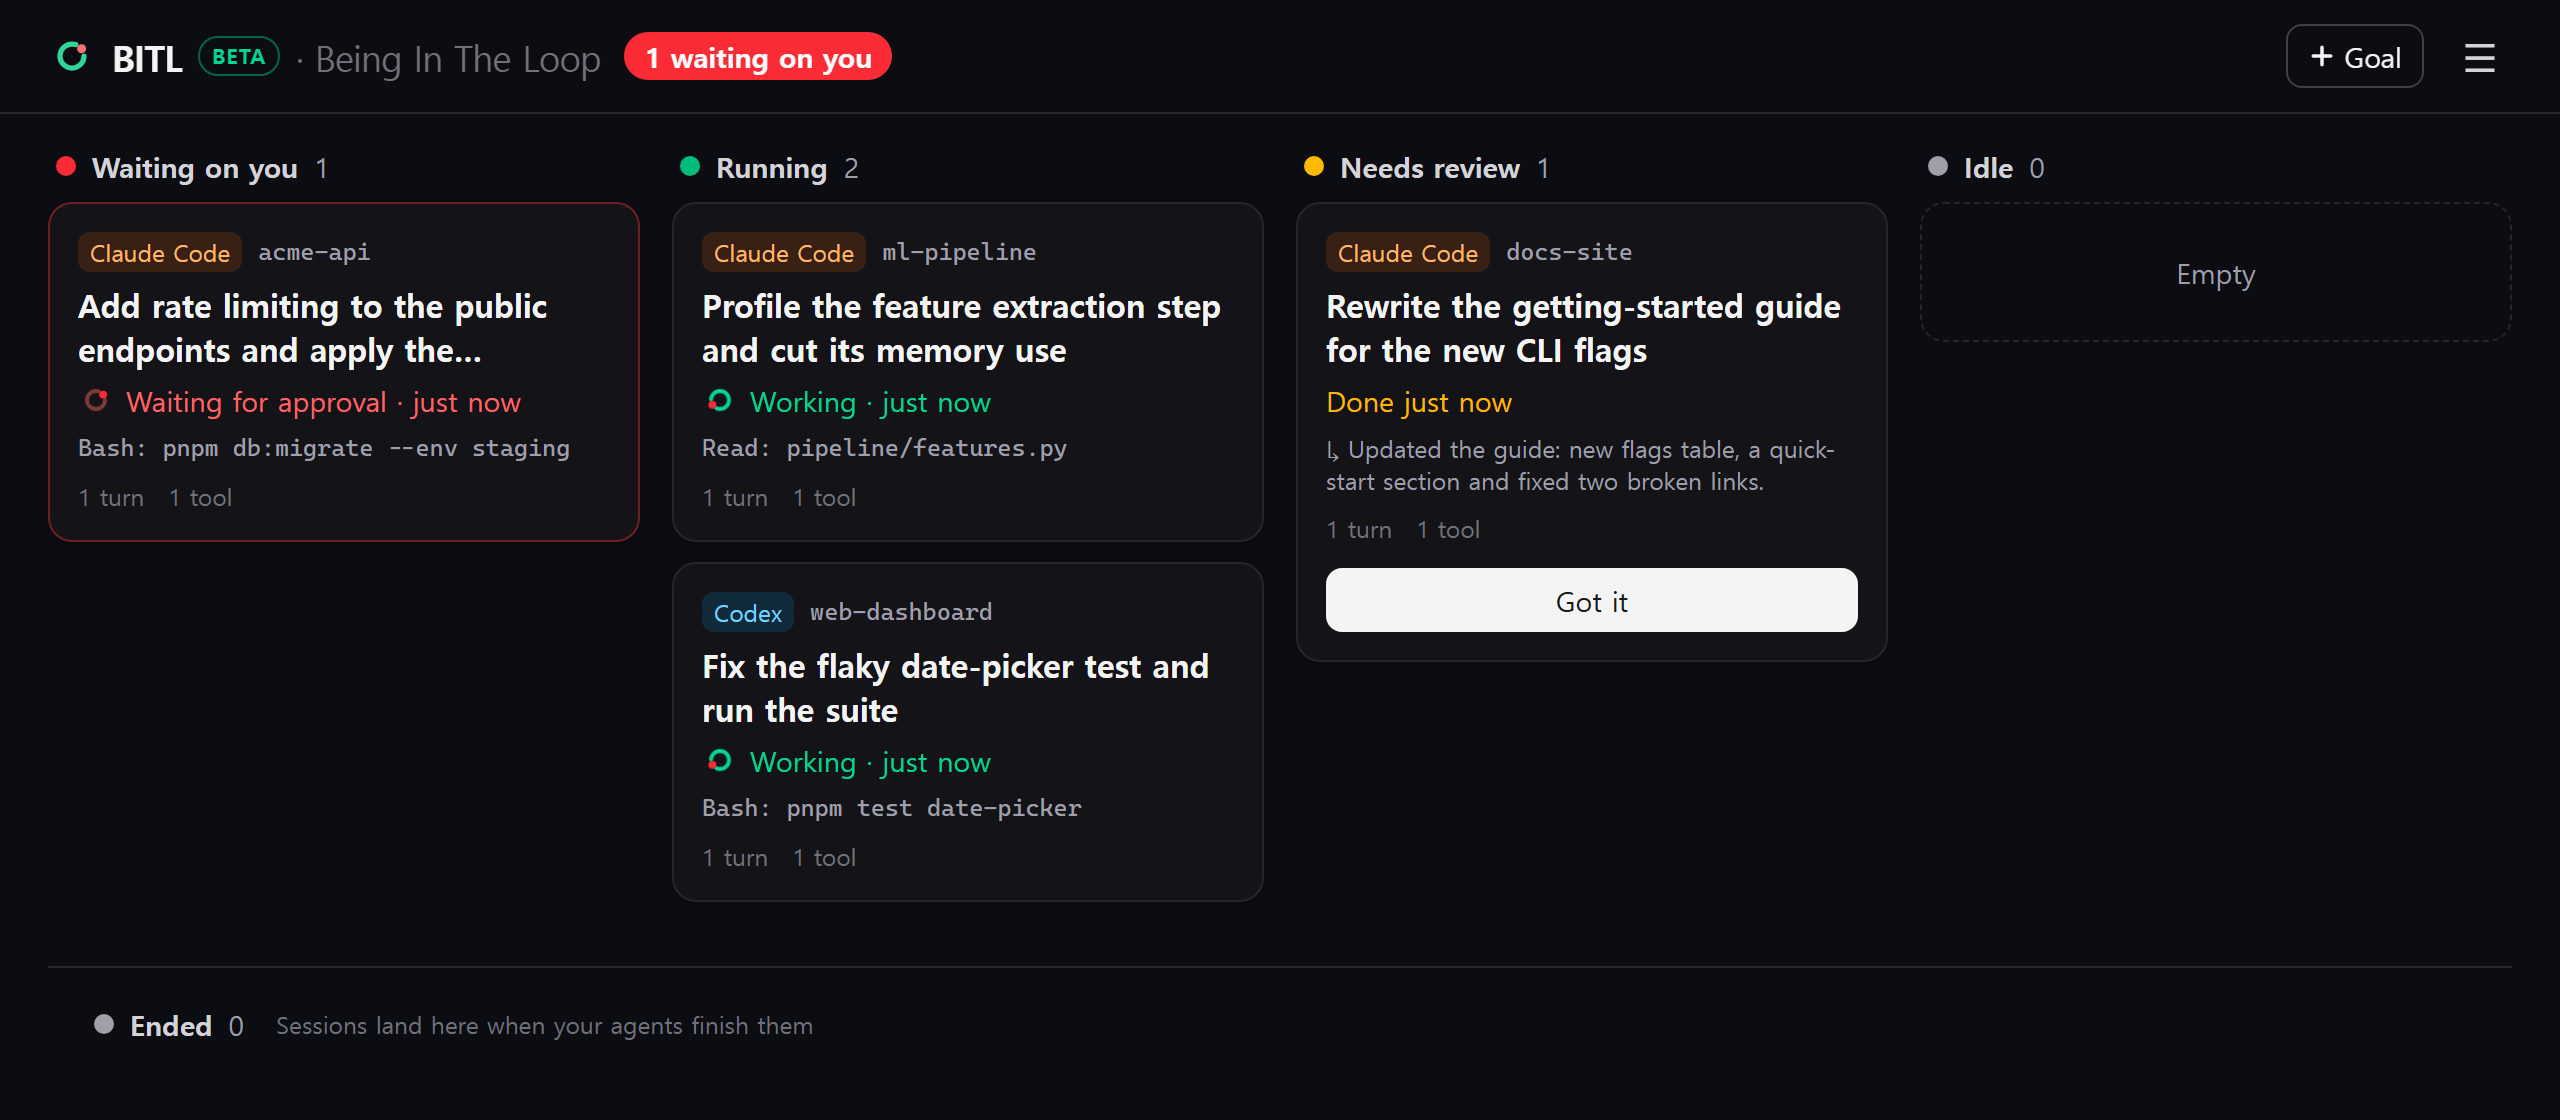
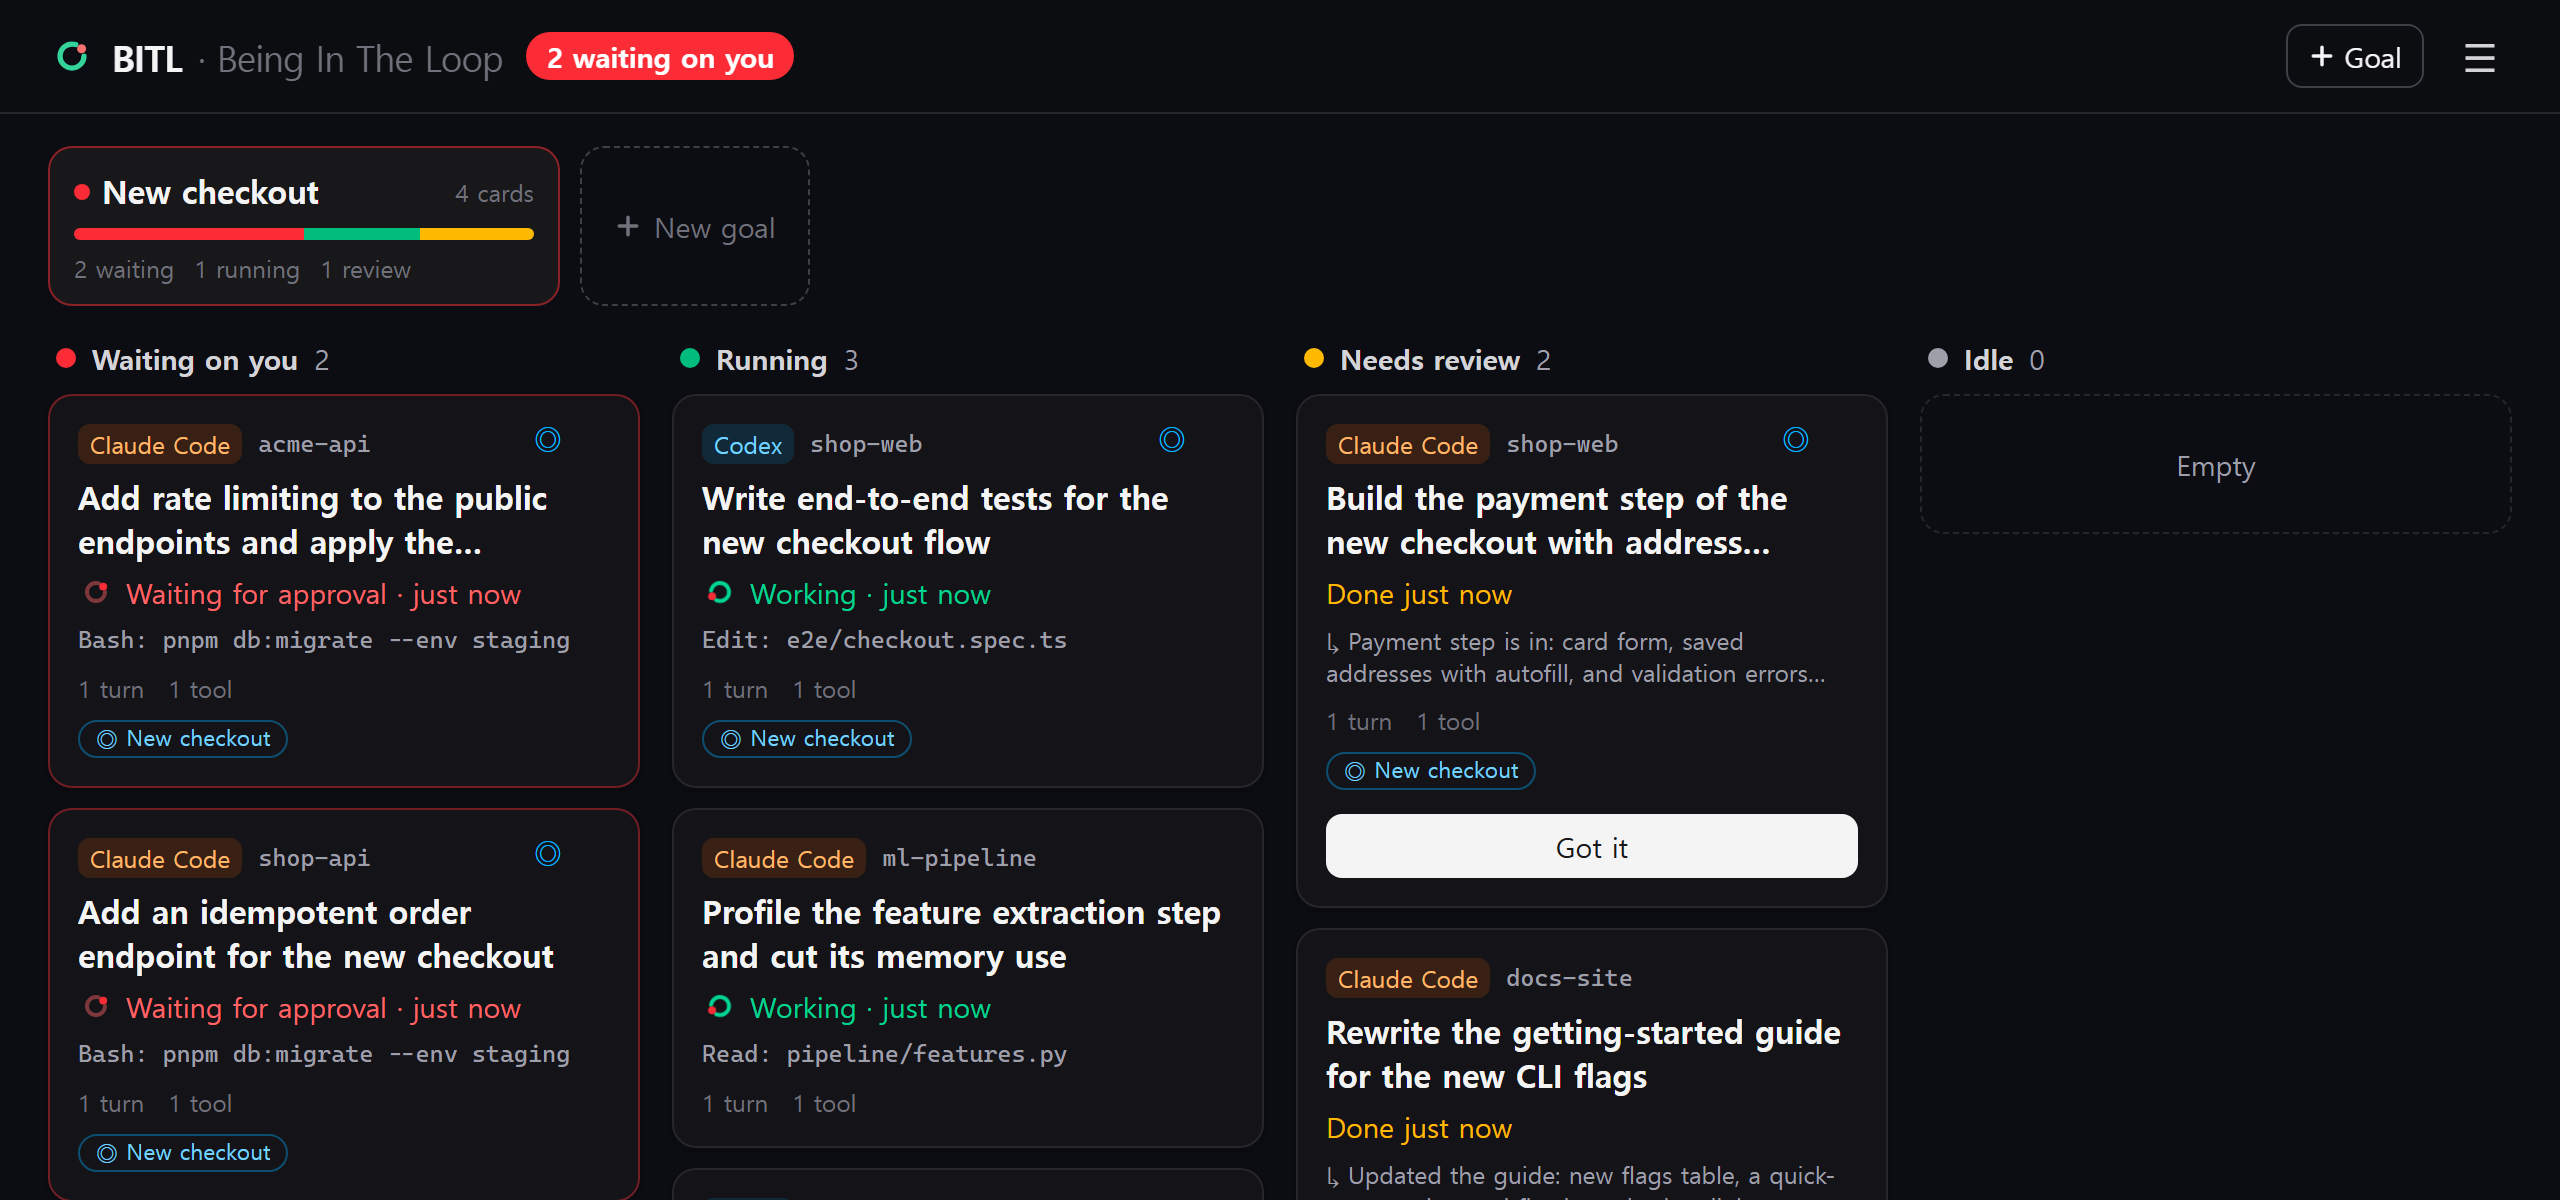
README: lead with following your agents and goals; new screenshot and social preview

diff --git a/README.md b/README.md
@@ -5,7 +5,7 @@
 <h1 align="center">BITL — Being In The Loop</h1>
 
 <p align="center">
-  <b>A local board for all your AI coding agents — see which ones are waiting for you.</b><br>
+  <b>Stay in the loop with every AI coding agent you run.</b><br>
   Claude Code · Codex · Antigravity
 </p>
 
@@ -14,13 +14,13 @@
   <a href="https://www.npmjs.com/package/@usebitl/cli"><img src="https://img.shields.io/npm/v/@usebitl/cli" alt="npm"></a>
 </p>
 
-<p align="center"><img src="docs/board.png" alt="The BITL board: one agent waiting for approval, two running, one done and ready for review" width="900"></p>
+<p align="center"><img src="docs/board.png" alt="BITL: sessions from Claude Code and Codex sorted into waiting on you, running and needs review, with a &quot;New checkout&quot; goal showing its progress" width="900"></p>
 
-When you run several agents at once, they spend a lot of time stuck: one is waiting on a permission prompt in a terminal you can't see, another finished ten minutes ago and is waiting for your review. BITL puts every session on one board, sorted by what it needs from you.
+When several agents work for you at once, each one lives in its own terminal and it's easy to lose the big picture: which are still working, what you asked each of them to do, what they've finished, and how far along the whole thing is. BITL gives you one live view of every session you've started.
 
-- **Waiting on you**: a permission prompt or a question.
-- **Running**: what it's doing right now (`Bash: pnpm test`, `Edit: src/app.ts`).
-- **Needs review**: the turn is done; the last answer is right on the card.
+- **Every session at a glance**: running (with what it's doing right now, like `Bash: pnpm test`), waiting on you (a permission prompt or a question), or done with the last answer right on the card.
+- **Goals**: group sessions under what you're actually trying to ship ("New checkout"). See how many are waiting, running or done, or show only that goal's cards.
+- **The story of each session**: every prompt you gave, what came back, and a timeline of tools and subagents, so you can catch up on what an agent did while you were away.
 - Sessions that are already running show up too. No wrapper and no change to how you start your agents. BITL listens to their hooks.
 
 This is the **local edition**. It runs on your PC (`127.0.0.1` only), needs no account, and keeps everything in a local SQLite file.
@@ -111,7 +111,12 @@ The local edition is free and open source (AGPL-3.0). usebitl.com is free during
 
 ## 한국어
 
-**여러 AI 코딩 에이전트를 한 화면에서 — 어떤 작업이 나를 기다리는지 보여 줍니다.** Claude Code, Codex, Antigravity 의 세션을 "나를 기다림(권한 요청·질문) / 실행 중 / 검토 필요" 로 나눠 보여 줍니다. 이미 실행 중인 세션도 hook 으로 잡으므로 에이전트를 실행하는 방법은 바뀌지 않습니다.
+**내가 실행한 AI 코딩 에이전트들의 흐름을 놓치지 않게.** Claude Code, Codex, Antigravity 의 모든 세션을 한 화면에서 봅니다.
+
+- 세션마다 지금 하는 일, 나를 기다리는지(권한 요청·질문), 끝났는지와 마지막 답변
+- 목표: 이루려는 일("새 결제 화면") 아래에 세션을 묶어, 몇 개가 실행 중·대기·완료인지 보고 그 목표만 걸러 보기
+- 세션별 기록: 내가 준 지시, 돌아온 답, 도구·서브에이전트 타임라인 — 자리를 비운 사이 무엇을 했는지 따라잡기
+- 이미 실행 중인 세션도 hook 으로 잡으므로 에이전트를 실행하는 방법은 바뀌지 않습니다
 
 이 저장소는 **로컬판**입니다. 내 PC 에서만(`127.0.0.1`) 돌고, 계정이 필요 없으며, 모든 기록을 PC 의 SQLite 파일에 둡니다.
 
